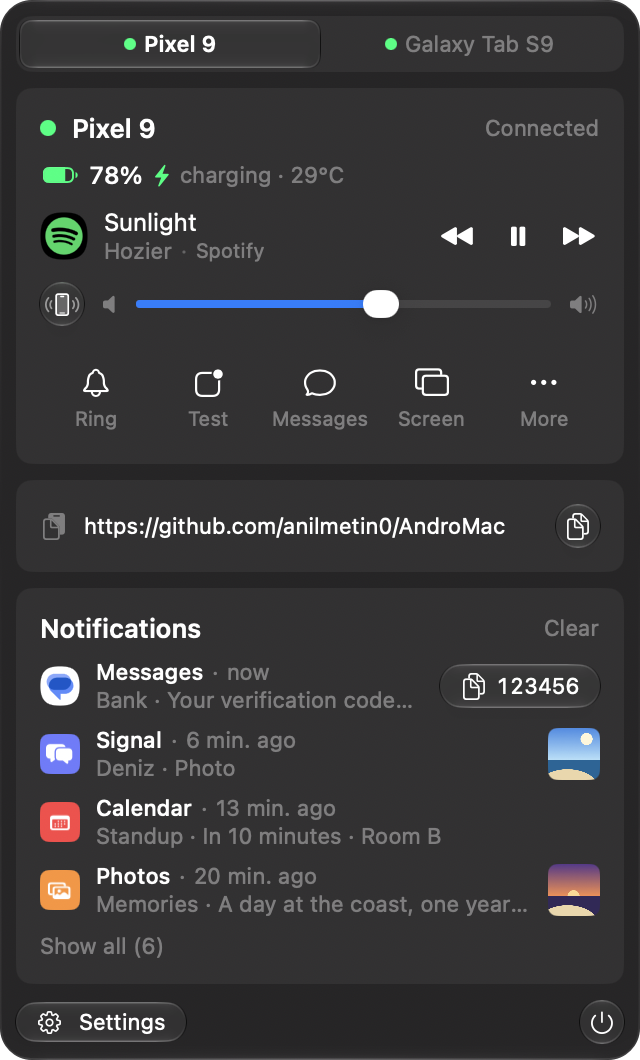
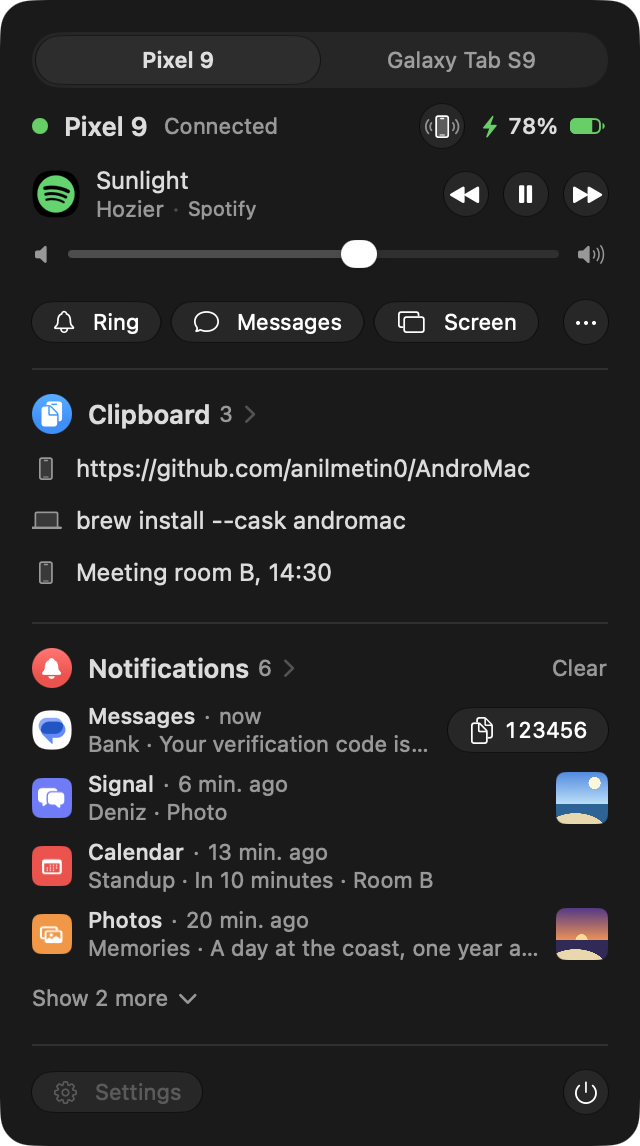
feat(macos): tell the panel's sections and the window's pages apart
Clipboard and Notifications in the menu bar panel each get a tinted
glyph and a count, and a copy shows the device it came from instead of
an up or down arrow. The window's sidebar uses tinted tiles in the same
colours. A list grown with Show more folds again when the panel closes,
so it no longer runs off the screen at the next glance.

Verified: swift test (82 passed); demo panel and window screenshots

diff --git a/macos/Sources/AndroMac/MenuPanel.swift b/macos/Sources/AndroMac/MenuPanel.swift
@@ -99,6 +99,14 @@ struct MenuPanel: View {
                 .allowsHitTesting(false)
         }
         .animation(reduceMotion ? nil : .easeOut(duration: 0.18), value: state.headline)
+        // The next glance starts folded: a list grown last time made the panel run off the screen.
+        .onDisappear {
+            guard !DemoMode.panelOpen else { return }
+            allClips = false
+            allNotifications = false
+            openClip = nil
+            openRow = nil
+        }
         // Opening the panel is the Mac-side "app opened" moment; the check itself is opt-in and daily.
         .onAppear {
             // ANDROMAC_DEMO_PANEL=animate unfolds a notification two seconds in, so the
@@ -280,7 +288,8 @@ struct MenuPanel: View {
     private var clipboard: some View {
         let rows = allClips ? clipPool : Array(clipPool.prefix(3))
         return VStack(alignment: .leading, spacing: Theme.Space.tight) {
-            sectionHeader("Clipboard") { state.showMainWindow(.clipboard) }
+            sectionHeader("Clipboard", symbol: "doc.on.clipboard.fill", tint: .blue,
+                          count: clipPool.isEmpty ? nil : clipPool.count) { state.showMainWindow(.clipboard) }
             if rows.isEmpty {
                 Text("Nothing copied yet")
                     .font(Theme.Font.label)
@@ -343,12 +352,21 @@ struct MenuPanel: View {
 
     /// A section's name as a button to its full history in the window, with a chevron as Control
     /// Center's module titles have, then the section's one quiet action.
-    private func sectionHeader(_ title: LocalizedStringKey, count: Int? = nil,
+    private func sectionHeader(_ title: LocalizedStringKey, symbol: String, tint: Color, count: Int? = nil,
                                @ViewBuilder extra: () -> some View = { EmptyView() },
                                openWindow: @escaping () -> Void) -> some View {
         HStack(spacing: Theme.Space.small) {
             Button(action: openWindow) {
                 HStack(spacing: Theme.Space.tight) {
+                    // A tinted glyph per section, as Control Center's modules have, so Clipboard and
+                    // Notifications tell apart at a glance and not only by their titles.
+                    Image(systemName: symbol)
+                        .font(.system(size: 10, weight: .semibold))
+                        .foregroundStyle(.white)
+                        .frame(width: 20, height: 20)
+                        .background(tint.gradient, in: Circle())
+                        .padding(.trailing, Theme.Space.tight)
+                        .accessibilityHidden(true)
                     Text(title).font(Theme.Font.heading)
                     if let count {
                         Text(verbatim: "\(count)")
@@ -420,7 +438,7 @@ struct MenuPanel: View {
     private var notifications: some View {
         let rows = shownNotifications
         return VStack(alignment: .leading, spacing: Theme.Space.tight) {
-            sectionHeader("Notifications", count: history.entries.isEmpty ? nil : history.entries.count,
+            sectionHeader("Notifications", symbol: "bell.fill", tint: .red, count: history.entries.isEmpty ? nil : history.entries.count,
                           extra: {
                               if !history.entries.isEmpty {
                                   QuietButton(String(localized: "Clear")) { history.clear() }

diff --git a/macos/Sources/AndroMac/MainWindow.swift b/macos/Sources/AndroMac/MainWindow.swift
@@ -64,6 +64,22 @@ struct MainWindow: View {
             case .setting(let section): return section.symbol
             }
         }
+
+        var tint: Color {
+            switch self {
+            case .messages: return .green
+            case .notifications, .setting(.notifications): return .red
+            case .clipboard, .setting(.clipboard): return .blue
+            case .apps: return .indigo
+            case .setting(.devices): return .teal
+            case .setting(.files): return .cyan
+            case .setting(.calls): return .green
+            case .setting(.mirroring): return .purple
+            case .setting(.permissions): return .orange
+            case .setting(.updates): return .pink
+            case .setting: return .gray
+            }
+        }
     }
 
     @EnvironmentObject private var state: AppState
@@ -203,7 +219,18 @@ struct MainWindow: View {
     }
 
     private func row(_ tab: Tab) -> some View {
-        Label(tab.title, systemImage: tab.symbol).tag(tab)
+        // Tinted tiles as System Settings has, the same colours as the menu bar panel's sections.
+        Label {
+            Text(tab.title)
+        } icon: {
+            Image(systemName: tab.symbol)
+                .symbolVariant(.fill)
+                .font(.system(size: 11, weight: .semibold))
+                .foregroundStyle(.white)
+                .frame(width: 22, height: 22)
+                .background(tab.tint.gradient, in: RoundedRectangle(cornerRadius: Theme.Radius.small, style: .continuous))
+        }
+        .tag(tab)
     }
 
     @ViewBuilder

diff --git a/macos/Sources/AndroMac/ClipboardHistory.swift b/macos/Sources/AndroMac/ClipboardHistory.swift
@@ -17,7 +17,8 @@ final class ClipboardHistory: ObservableObject {
         case sent          // Mac -> phone
         case received      // phone -> Mac
 
-        var symbol: String { self == .sent ? "arrow.up" : "arrow.down" }
+        /// Where the copy was made: an arrow said only up or down, not which device.
+        var symbol: String { self == .sent ? "laptopcomputer" : "iphone" }
         var label: String {
             self == .sent
                 ? String(localized: "Sent to phone") : String(localized: "Received from phone")

diff --git a/macos/Sources/AndroMac/PanelComponents.swift b/macos/Sources/AndroMac/PanelComponents.swift
@@ -538,6 +538,7 @@ struct ClipRow: View {
                         .frame(width: 14)
                         .contentTransition(.symbolEffect(.replace))
                         .symbolEffect(.bounce, value: copied)
+                        .accessibilityLabel(direction.label)
                     Group {
                         if open {
                             Text(direction.label).font(Theme.Font.label).foregroundStyle(.secondary)
